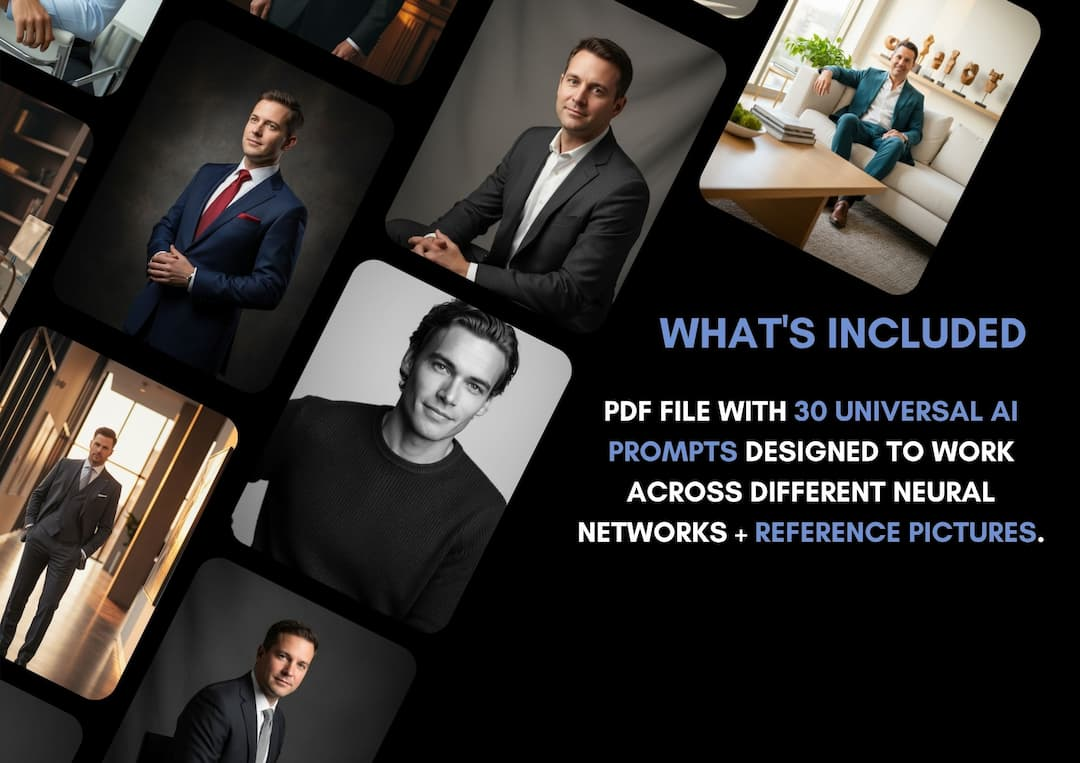
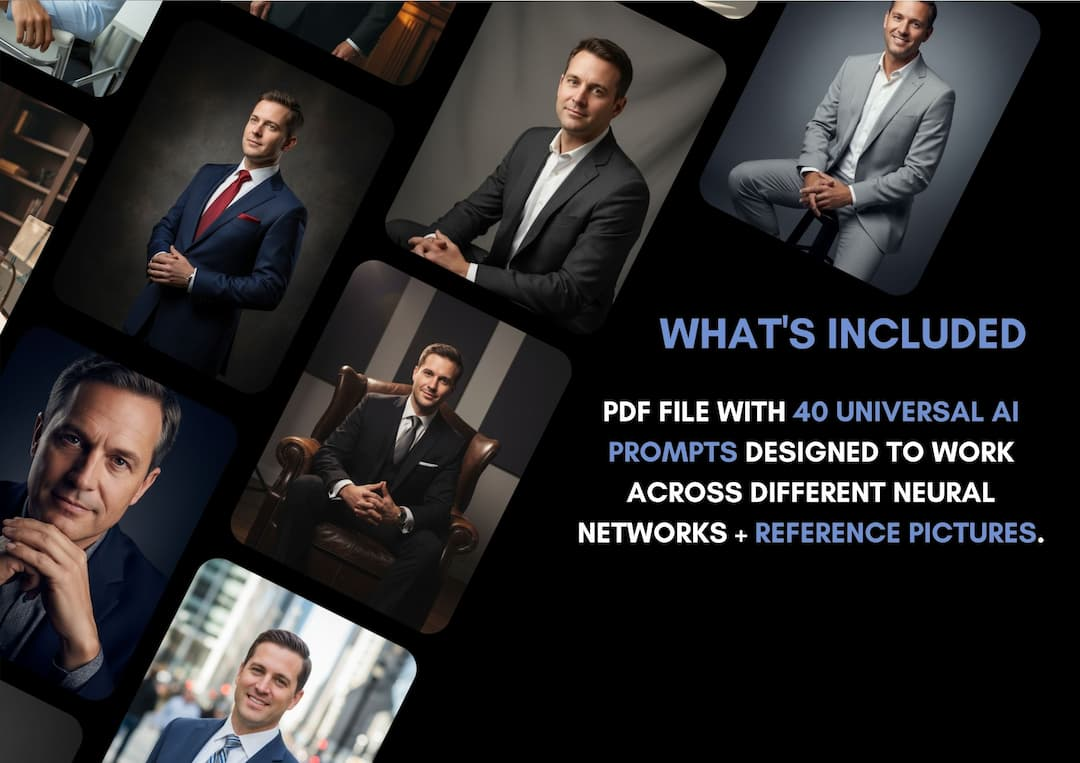
Update 40 AI Business Man Photo Prompts pack

diff --git a/src/constants/promptbooks.ts b/src/constants/promptbooks.ts
@@ -416,16 +416,16 @@ export const PROMTBOOKS: Record<string, PromptBookRaw> = {
     `,
   },
 
-  "30-ai-business-man-photo-prompts": {
-    isDisabled: true,
-    name: "30 AI Business Man Photo Prompts",
+  "40-ai-business-man-photo-prompts": {
+    // isDisabled: true,
+    name: "40 AI Business Man Photo Prompts",
     links: {
-      // cm: "https://creativemarket.com/AlenaMurasheva/291924401-30-AI-Business-Man-Photo-Prompts",
-      // etsy: "https://www.etsy.com/listing/4395925243/30-ai-business-man-photo-prompts-brand",
+      cm: "https://creativemarket.com/AlenaMurasheva/291924401-40-AI-Business-Man-Photo-Prompts",
+      etsy: "https://www.etsy.com/listing/4395925243/40-ai-business-man-photo-prompts-brand",
       // patreon: "",
     },
     images: [
-      "/promptbooks/13/1.jpg",
+      "/promptbooks/13/2.jpg",
       "/promptbooks/13/3.jpg",
       "/promptbooks/13/4.jpg",
       "/promptbooks/13/5.jpg",
@@ -436,15 +436,17 @@ export const PROMTBOOKS: Record<string, PromptBookRaw> = {
       "/promptbooks/13/10.jpg",
       "/promptbooks/13/11.jpg",
       "/promptbooks/13/12.jpg",
+      "/promptbooks/13/13.jpg",
+      "/promptbooks/13/14.jpg",
     ],
     price: {
       ru: 1000,
       en: 13.2,
     },
     text: `
-    <p>💼 Elevate your professional image with AI. This Business Man Prompt Pack includes 30 photo prompts to create confident, stylish, and high-end portraits for your personal brand, LinkedIn profile, website, or business content.</p>
+    <p>💼 Elevate your professional image with AI. This Business Man Prompt Pack includes 40 photo prompts to create confident, stylish, and high-end portraits for your personal brand, LinkedIn profile, website, or business content.</p>
     <h3>📸 What’s included:</h3>
-    <p>PDF file with 30 ready-to-use AI prompts + reference pictures. Compatible with Krea, Nano Banana, Higgsfield, Leonardo AI, and other tools supporting Character Reference Works with your own face photo or model image.</p>
+    <p>PDF file with 40 ready-to-use AI prompts + reference pictures. Compatible with Krea, Nano Banana, Higgsfield, Gemini, and other tools supporting Character Reference Works with your own face photo or model image.</p>
     <h3>💫 Why you’ll love it:</h3>
     <ul>
     <li>Look confident and professional without expensive photoshoots</li>
